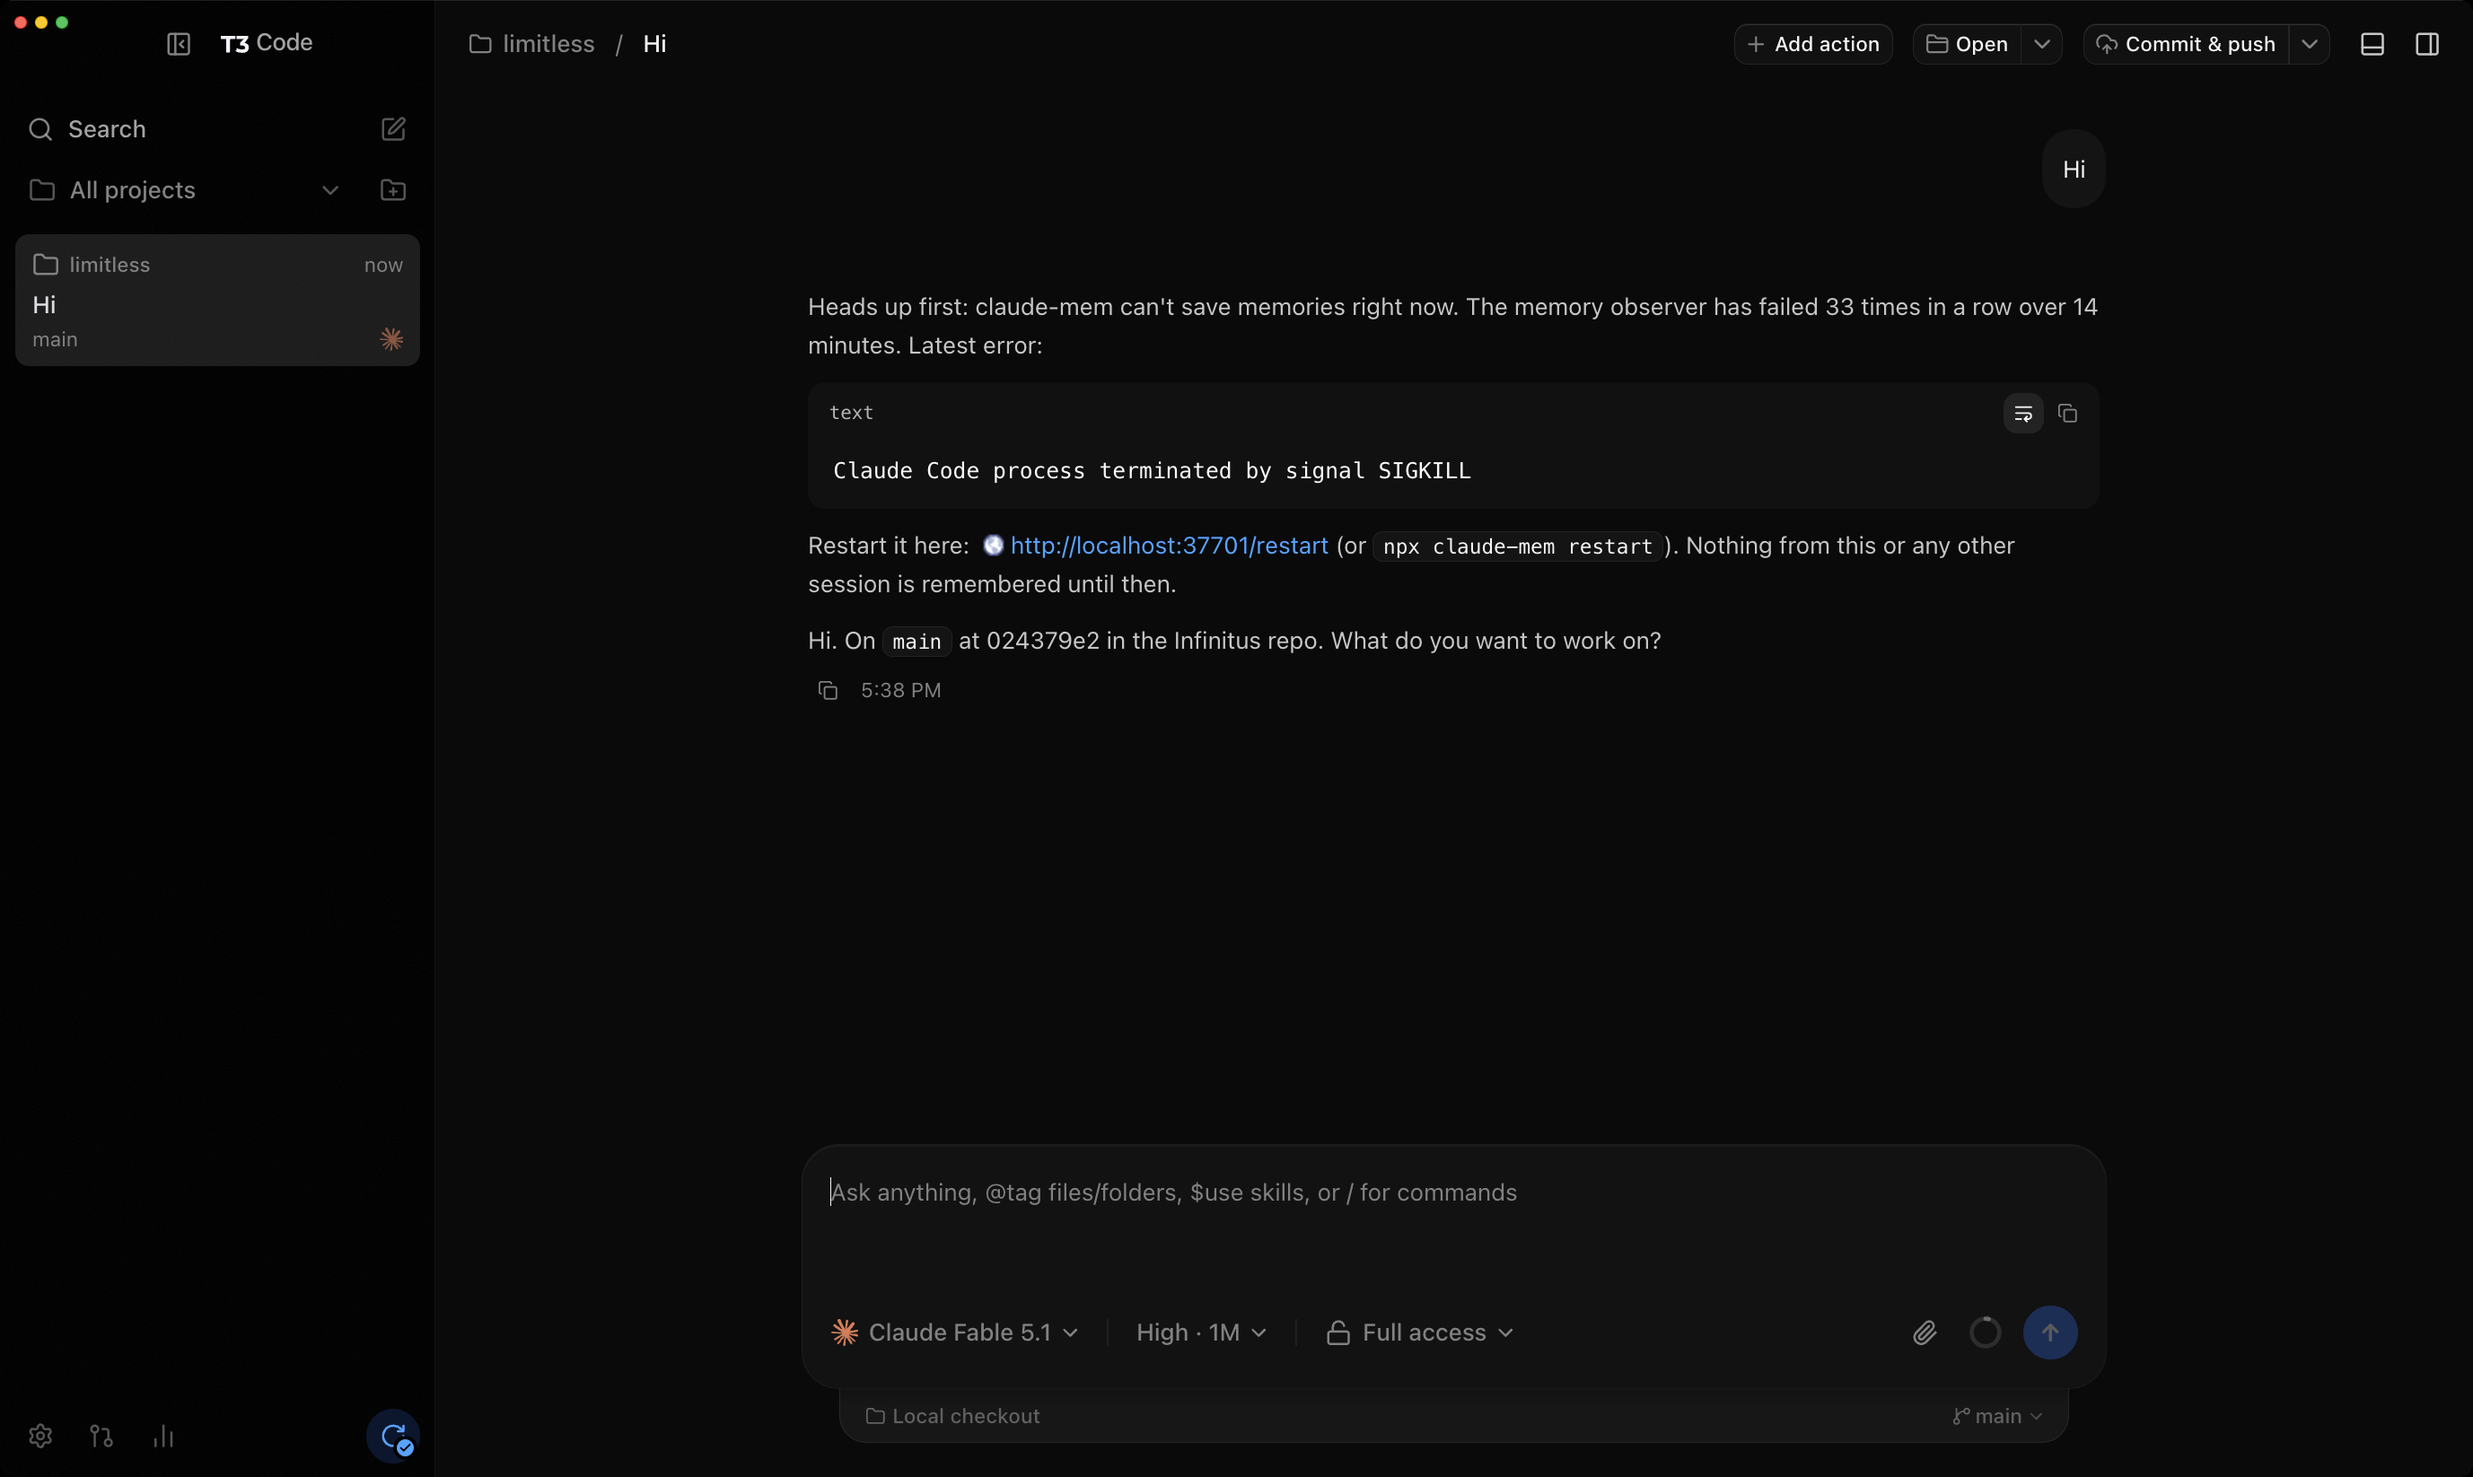
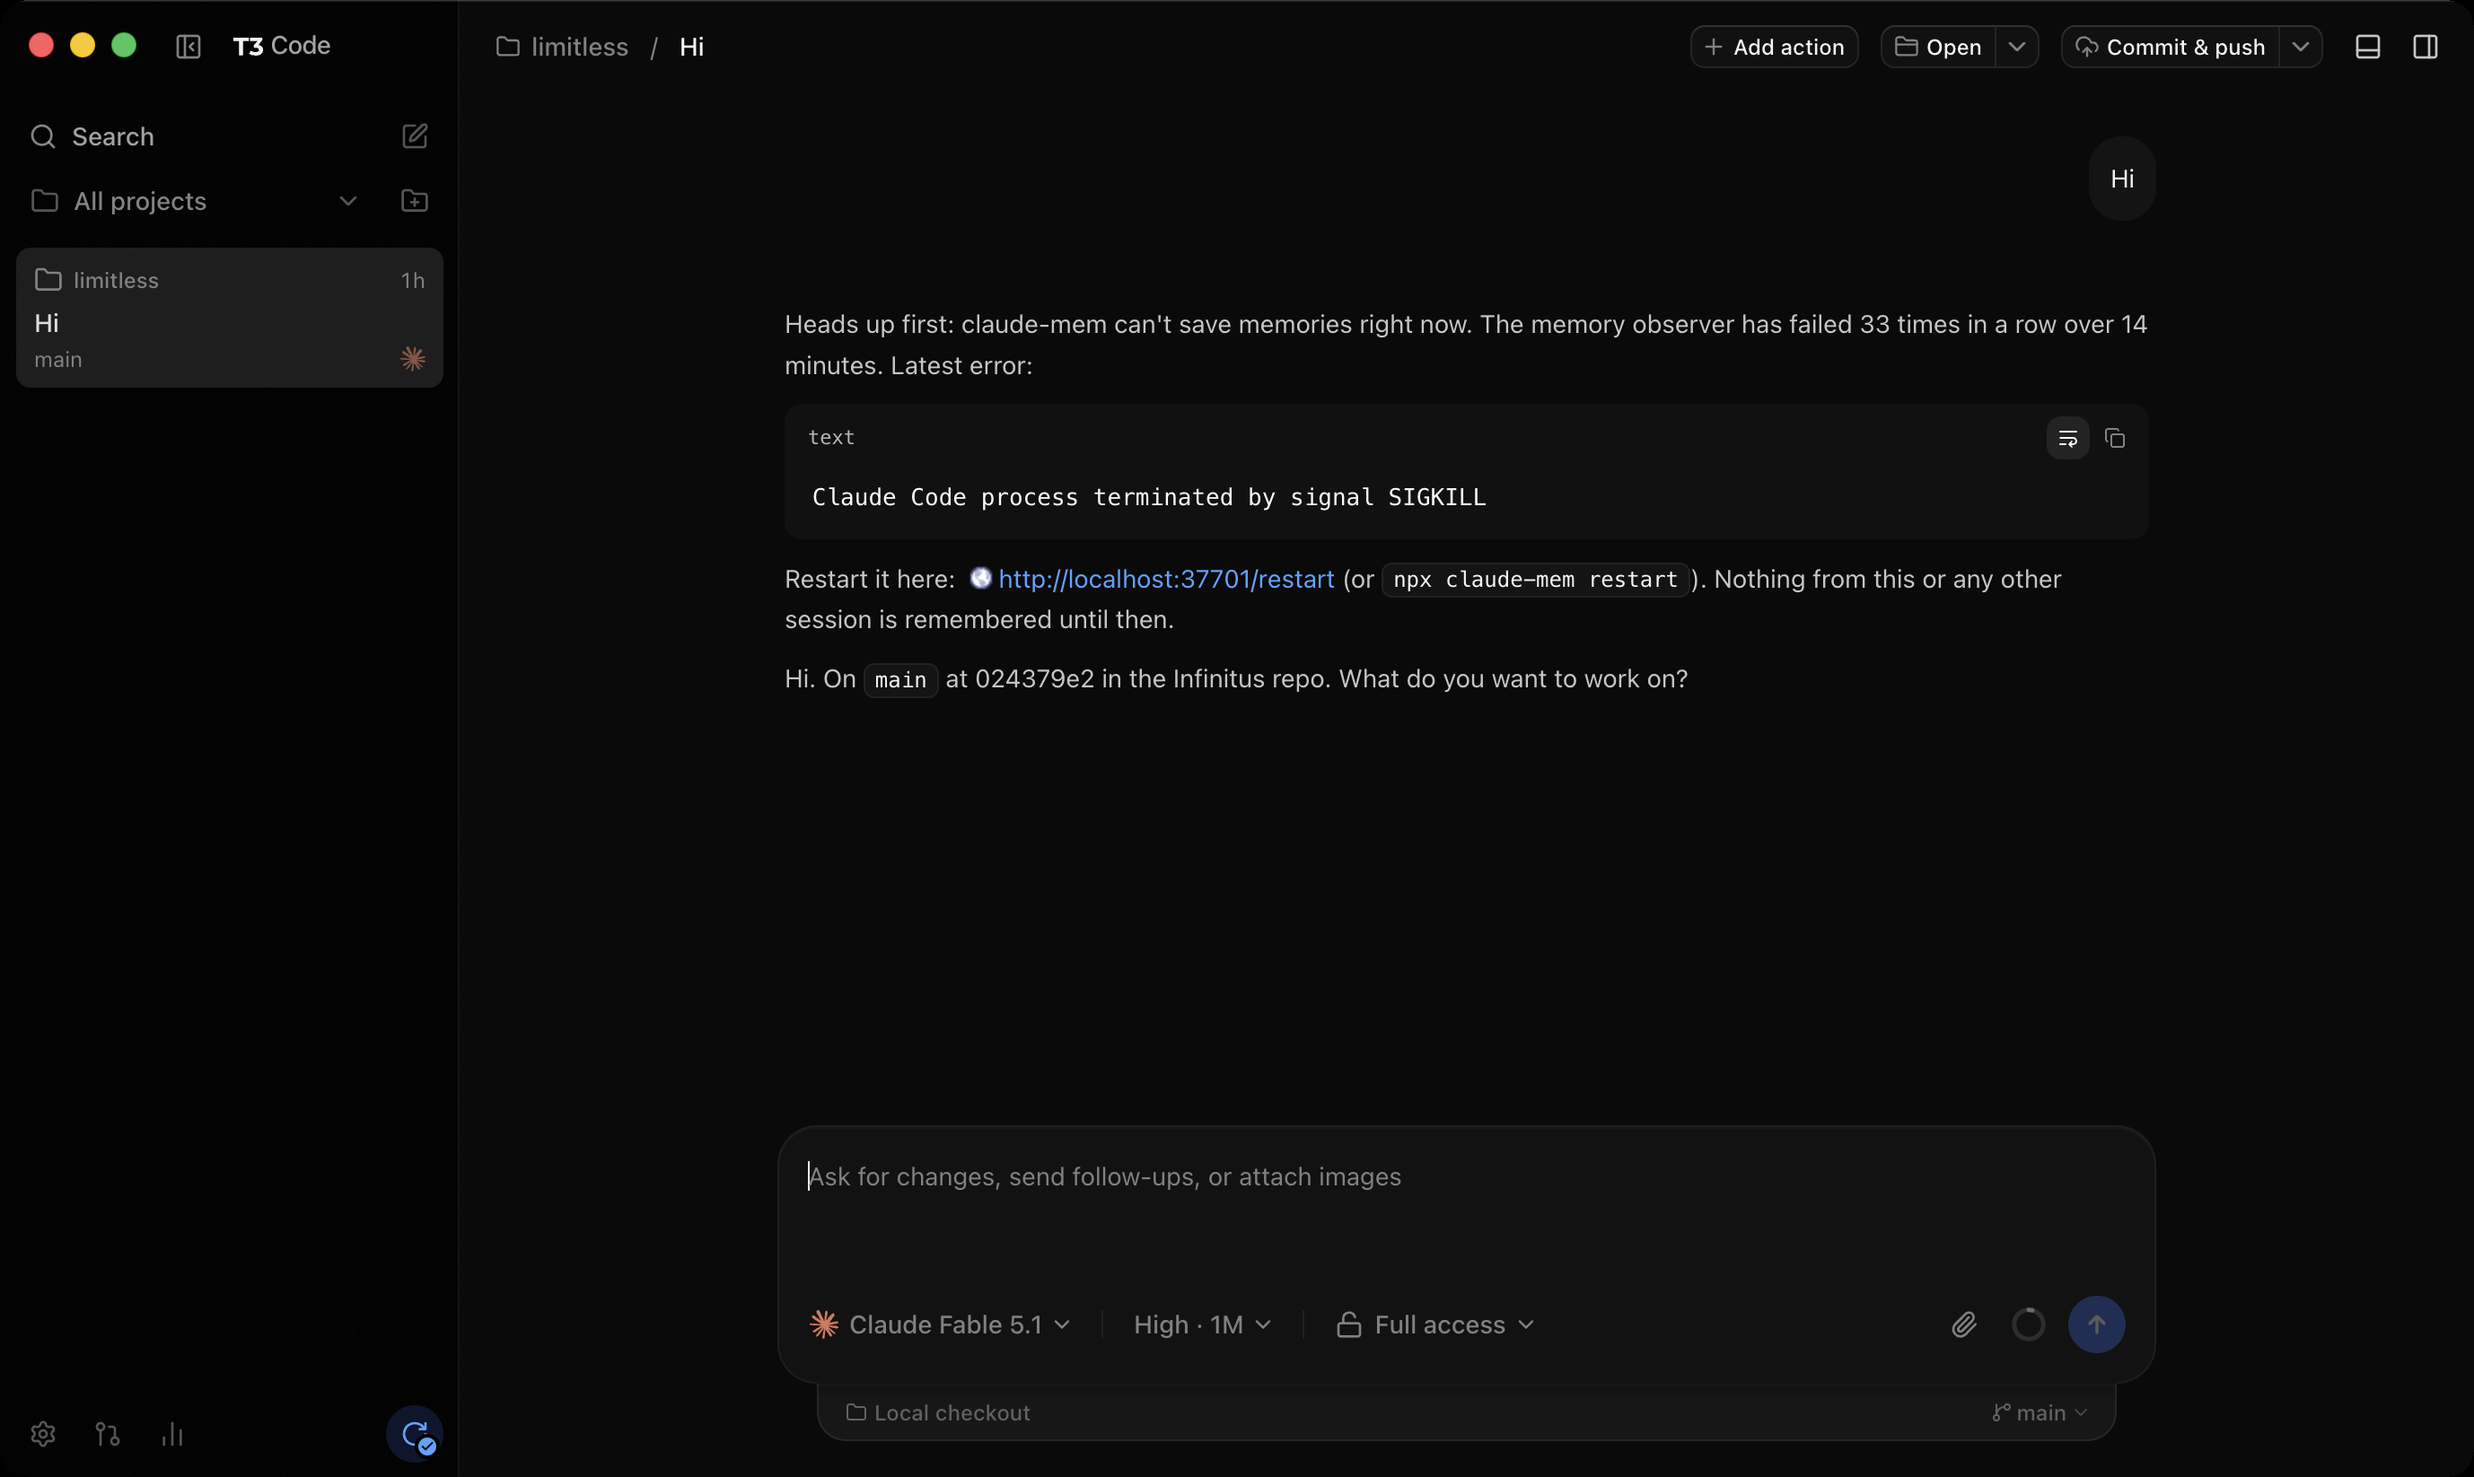
t3ref: the Mac references re-shot on the 2× display at ⌘0 — 2756×1646, the sidebar at its 16 rem default (T3 clone B)

diff --git a/tools/t3ref/refs/PROVENANCE.md b/tools/t3ref/refs/PROVENANCE.md
@@ -53,17 +53,21 @@ diff:
 ## The Mac references
 
 `mac-thread.png` and `mac-composer.png` are the desktop app, **T3 Code
-(Alpha)** as installed in `/Applications`, captured 2026-09-09 17:41 with
-`capture-mac.sh` from the window as the user had it (1377.5×823 pt on a
-2× display → 2755×1646). The thread is a fresh `Hi` in a `limitless`
-project — the original fixture thread had been deleted, so this one was
-recreated by driving the app through its accessibility tree (New thread →
-⌘2 limitless → "Hi" → ⏎) — and the reply is what that session gave, which
-`T3FIX_MAC_REF=1 fixture.sh` reproduces verbatim. The sidebar rows under
-`Hi` (the user's other threads of the day) are flat-filled with the
-sidebar surface, the way the redactions below were done, so the sidebar
-matches the fixture's single thread. Stored with PNG level-9 compression
-(lossless; `compare.py` decodes them, checked).
+(Alpha)** as installed in `/Applications`, captured 2026-09-09 18:58 with
+`capture-mac.sh` on the built-in 2× display (`NSScreen` scale 2.0) with the
+app's zoom reset (⌘0 — the user runs it at Chromium zoom level 3.5, a
+1.893× factor, which the first pair of references carried and which capped
+parity at 2.08 %), the window sized to 1378×823 pt (→ 2756×1646) and the
+pointer off the window (the message footer is hover state). The thread is
+a fresh `Hi` in a `limitless` project — the original fixture thread had
+been deleted, so this one was recreated by driving the app through its
+accessibility tree (New thread → ⌘2 limitless → "Hi" → ⏎) — and the reply
+is what that session gave, which `T3FIX_MAC_REF=1 fixture.sh` reproduces
+verbatim. The sidebar rows under `Hi` (the user's other threads of the
+day) are flat-filled with the sidebar surface, the way the redactions
+below were done, so the sidebar matches the fixture's single thread; the
+sidebar is upstream's default 16 rem (255 pt measured). Stored with PNG
+level-9 compression (lossless; `compare.py` decodes them, checked).
 
 ## Redactions
 
